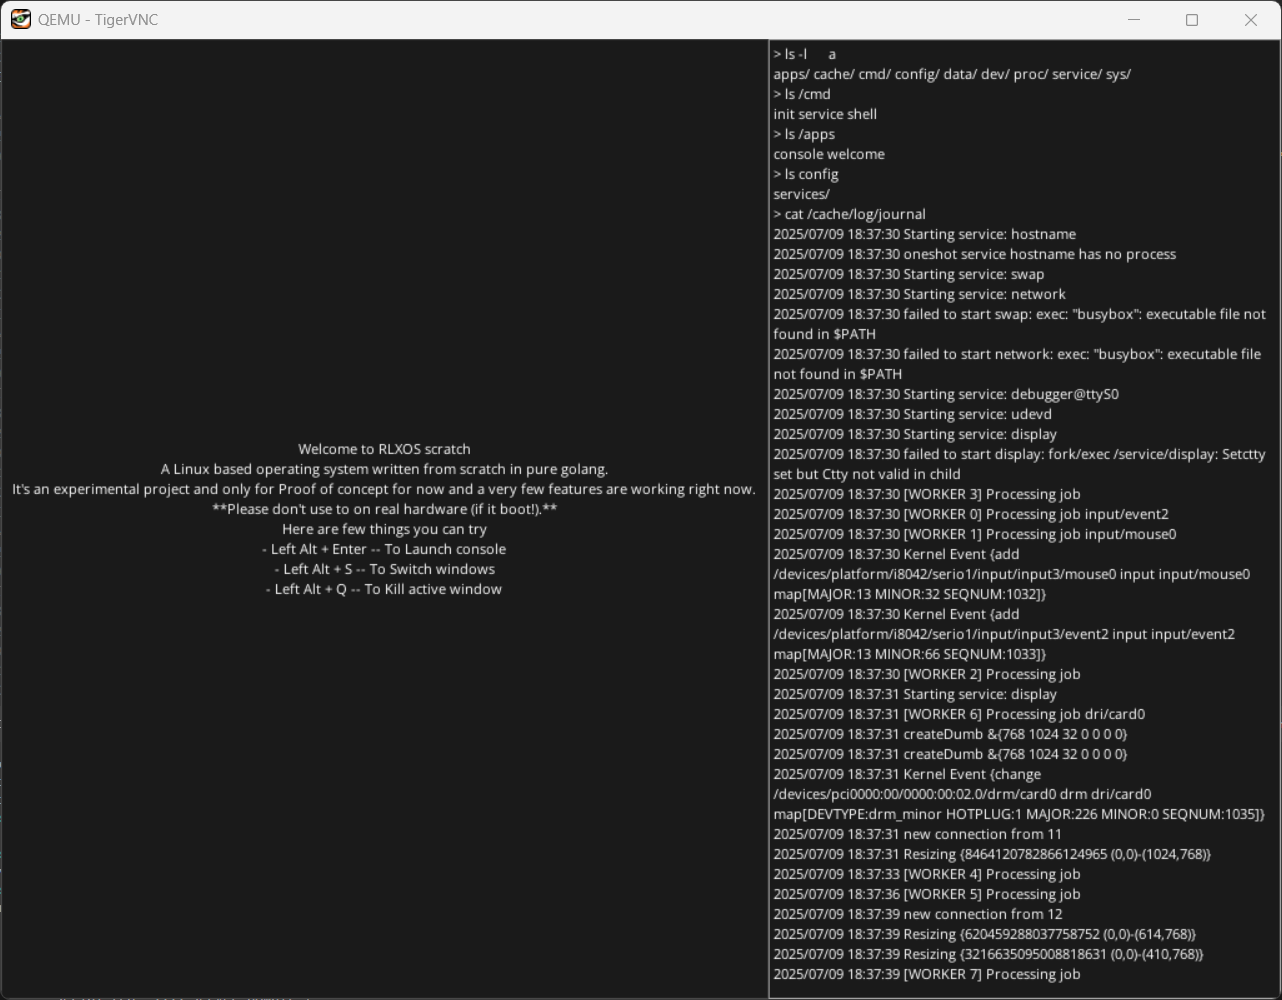
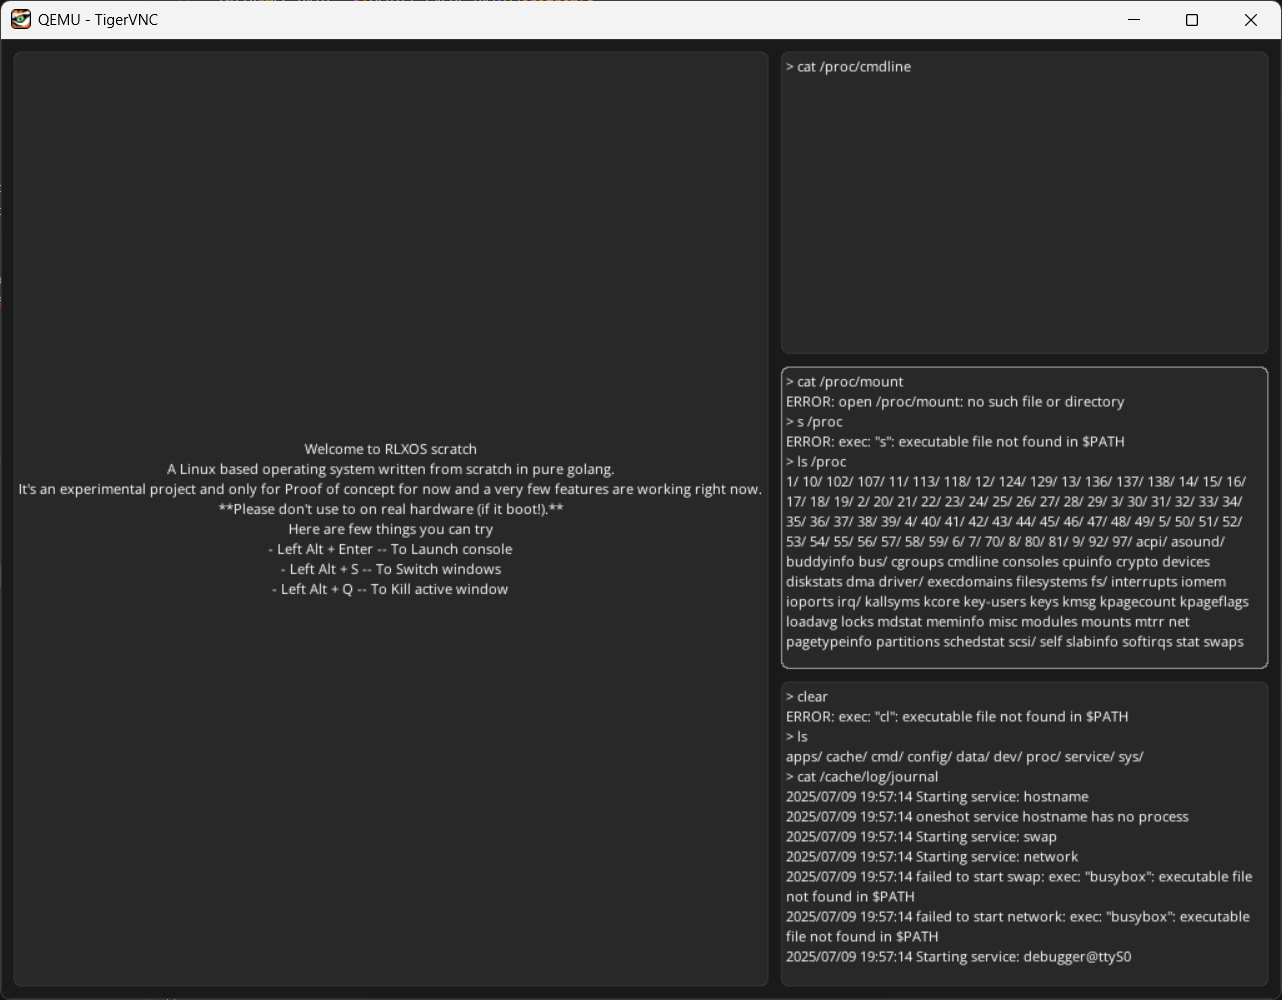
Display server (#315)
* service/display: added spacing in layout with rounded corner surfaces

* README.md: updated screenshot

Changed region(s): [[0.0, 0.031, 1.0, 1.0], [0.0936, 0.0, 0.1248, 0.031], [0.0312, 0.0, 0.0624, 0.031]]

diff --git a/service/display/screen/desktop/desktop.go b/service/display/screen/desktop/desktop.go
@@ -46,15 +46,23 @@ type Desktop struct {
 	background          image.Image
 	activeBorderColor   color.Color
 	inactiveBorderColor color.Color
+	surfaceBackground   color.Color
+	surfaceBorderRadius int
 	keys                key.Keys
+
+	spacing int
 
 	mutex sync.Mutex
 }
 
 func (d *Desktop) Init(rect image.Rectangle) error {
 	d.background = image.NewUniform(argb.NewColor(26, 26, 26, 255))
+
 	d.activeBorderColor = argb.NewColor(150, 150, 150, 255)
 	d.inactiveBorderColor = argb.NewColor(50, 50, 50, 255)
+	d.surfaceBackground = argb.NewColor(40, 40, 40, 255)
+	d.surfaceBorderRadius = 4
+	d.spacing = 10
 	d.exec("/apps/welcome")
 	return nil
 }
@@ -70,12 +78,12 @@ func (d *Desktop) Draw(cv canvas.Canvas) {
 
 	for _, s := range surfaces {
 		if s.Dirty() {
-			draw.Draw(cv, s.Bounds(), d.background, s.Bounds().Min, draw.Src)
 			borderColor := d.inactiveBorderColor
 			if s == d.activeSurface {
 				borderColor = d.activeBorderColor
 			}
-			graphics.Rect(cv, s.Bounds(), 0, borderColor)
+			graphics.FillRect(cv, s.Bounds(), d.surfaceBorderRadius, d.surfaceBackground)
+			graphics.Rect(cv, s.Bounds(), d.surfaceBorderRadius, borderColor)
 			s.Draw(cv)
 			s.SetDirty(false)
 		}
@@ -270,16 +278,6 @@ func (d *Desktop) Resize(top, left int) {
 		))
 		d.activeSurface.SetDirty(true)
 	}
-}
-
-func (d *Desktop) surfaceFromId(id int) (*surface.Surface, bool) {
-	idx := slices.IndexFunc(d.surfaces, func(s *surface.Surface) bool {
-		return s.Image.Key() == id
-	})
-	if idx == -1 {
-		return nil, false
-	}
-	return d.surfaces[idx], true
 }
 
 func (d *Desktop) surfaceFromConn(conn *connect.Connection) (*surface.Surface, bool) {

diff --git a/service/display/screen/desktop/layout.go b/service/display/screen/desktop/layout.go
@@ -21,43 +21,54 @@ import "image"
 
 func (d *Desktop) Layout() {
 	count := len(d.surfaces)
+
 	if count == 0 {
 		d.SetDirty(true)
 		return
 	}
+
 	d.activeSurface = d.surfaces[len(d.surfaces)-1]
 
 	bounds := d.Bounds()
 	screenWidth, screenHeight := bounds.Dx(), bounds.Dy()
+
 	masterRatio := 0.6
+	padding := 10
 
 	if count == 1 {
-		d.surfaces[0].SetBounds(bounds)
+		d.surfaces[0].SetBounds(image.Rect(
+			bounds.Min.X+padding,
+			bounds.Min.Y+padding,
+			bounds.Max.X-padding,
+			bounds.Max.Y-padding,
+		))
 		d.SetDirty(true)
 		return
 	}
 
-	masterWidth := int(float64(screenWidth) * masterRatio)
+	masterWidth := int(float64(screenWidth)*masterRatio) - padding
 	stackCount := count - 1
-	stackHeight := screenHeight / stackCount
+	stackHeight := (screenHeight - padding*(stackCount+1)) / stackCount
 
 	d.surfaces[0].SetBounds(image.Rect(
-		bounds.Min.X,
-		bounds.Min.Y,
-		bounds.Min.X+masterWidth,
-		bounds.Max.Y,
+		bounds.Min.X+padding,
+		bounds.Min.Y+padding,
+		bounds.Min.X+padding+masterWidth,
+		bounds.Max.Y-padding,
 	))
 
 	for i := 0; i < stackCount; i++ {
-		top := bounds.Min.Y + i*stackHeight
+		top := bounds.Min.Y + padding + i*(stackHeight+padding)
 		bottom := top + stackHeight
+
 		if i == stackCount-1 {
-			bottom = bounds.Max.Y
+			bottom = bounds.Max.Y - padding
 		}
+
 		d.surfaces[i+1].SetBounds(image.Rect(
-			bounds.Min.X+masterWidth,
+			bounds.Min.X+padding+masterWidth+padding,
 			top,
-			bounds.Max.X,
+			bounds.Max.X-padding,
 			bottom,
 		))
 	}

diff --git a/README.md b/README.md
@@ -5,7 +5,8 @@
 > ⚠ **Warning: Highly Experimental**
 > This project is in a very early **proof-of-concept (POC)** stage. The codebase is **inefficient**, and there are **known memory and resource leaks**. Do **not** use this for anything other than **learning** or **experimentation**.
 
-![Screenshot](assets/screenshots/screenshot.png)
+<br>
+<img width="auto" height="500" src="assets/screenshots/screenshot.png">
 
 ---
 
